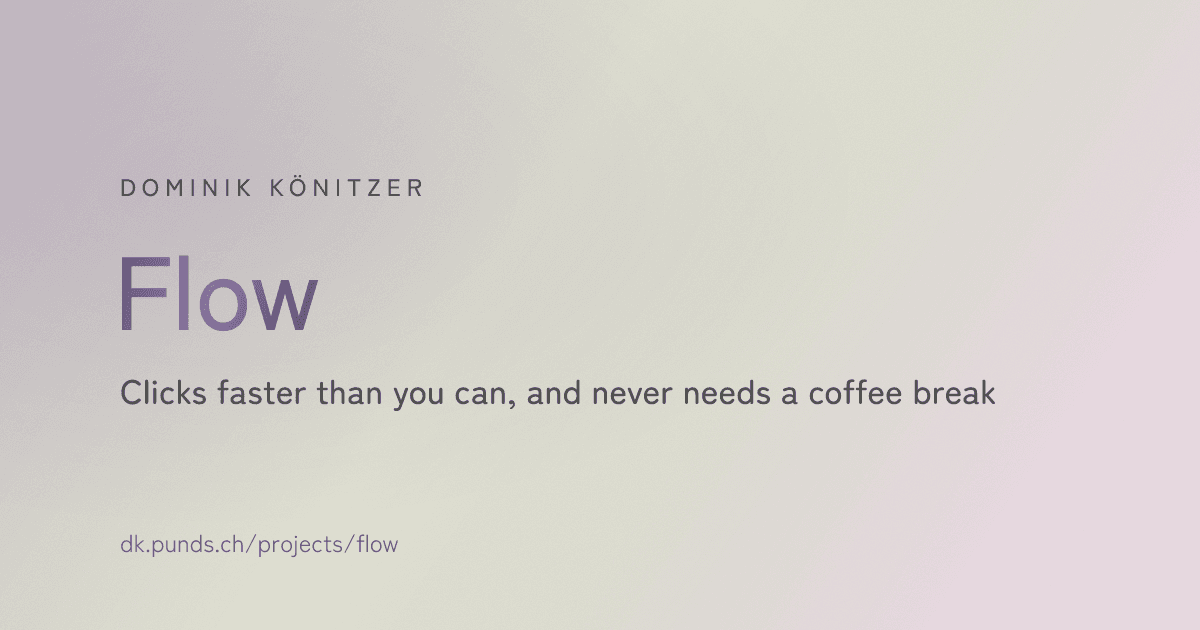
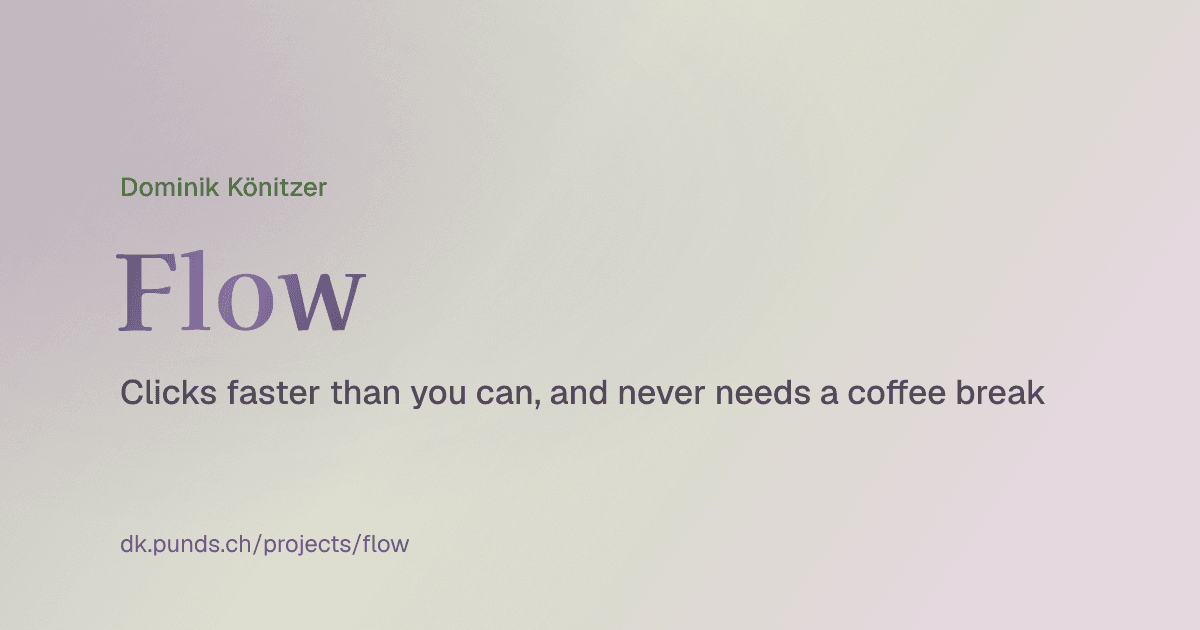
chore(og): share cards in Geist and Kaisei Decol

diff --git a/scripts/gen-og.ts b/scripts/gen-og.ts
@@ -11,8 +11,10 @@
  * Run: `bun scripts/gen-og.ts`. Needs `@resvg/resvg-js` and `sharp`, which are
  * not kept in package.json because these change rarely: install them once into
  * the temp folder below (`cd %TEMP%/resvg && bun add @resvg/resvg-js sharp`) or
- * into the repo transiently. The fonts are fetched from the Google Fonts repo
- * into the temp folder on first run; resvg cannot see web fonts.
+ * into the repo transiently. The fonts are fetched into the temp folder on
+ * first run, static cuts only (resvg cannot see web fonts and would draw a
+ * variable font at its default weight): Geist from its own repo, the other
+ * two from the Google Fonts repo.
  *
  * The cards are written as 128-colour palette PNGs. resvg's 32-bit output is
  * ~950 KB per card because the grain filter defeats PNG compression, and
@@ -37,22 +39,23 @@ const { Resvg } = transient<typeof import("@resvg/resvg-js")>("@resvg/resvg-js",
 const sharp = transient<typeof import("sharp")>("sharp", "sharp");
 
 const FONT_DIR = join(tmpdir(), "og-fonts");
-const FONT_FILES = [
-  "mplusrounded1c/MPLUSRounded1c-ExtraBold.ttf",
-  "zenmarugothic/ZenMaruGothic-Medium.ttf",
-  "zenmarugothic/ZenMaruGothic-Bold.ttf",
-  "zenkakugothicnew/ZenKakuGothicNew-Regular.ttf",
-  "zenkakugothicnew/ZenKakuGothicNew-Medium.ttf",
+const GOOGLE_FONTS = "https://github.com/google/fonts/raw/main/ofl";
+const GEIST = "https://github.com/vercel/geist-font/raw/main/fonts/Geist/ttf";
+const FONT_URLS = [
+  `${GOOGLE_FONTS}/mplusrounded1c/MPLUSRounded1c-ExtraBold.ttf`,
+  `${GOOGLE_FONTS}/kaiseidecol/KaiseiDecol-Bold.ttf`,
+  `${GEIST}/Geist-Regular.ttf`,
+  `${GEIST}/Geist-Medium.ttf`,
 ];
 
 async function ensureFonts(): Promise<string[]> {
   mkdirSync(FONT_DIR, { recursive: true });
   const paths: string[] = [];
-  for (const rel of FONT_FILES) {
-    const out = join(FONT_DIR, rel.split("/")[1]);
+  for (const url of FONT_URLS) {
+    const out = join(FONT_DIR, url.split("/").at(-1) as string);
     if (!existsSync(out)) {
-      const res = await fetch(`https://github.com/google/fonts/raw/main/ofl/${rel}`);
-      if (!res.ok) throw new Error(`font download failed: ${rel} (${res.status})`);
+      const res = await fetch(url);
+      if (!res.ok) throw new Error(`font download failed: ${url} (${res.status})`);
       writeFileSync(out, new Uint8Array(await res.arrayBuffer()));
     }
     paths.push(out);
@@ -76,9 +79,14 @@ const VIOLET = "#5a4276";
 const SAGE = "#a9c39a";
 const BLUSH = "#e4d3e0";
 
-const TITLE_FONT = "M PLUS Rounded 1c";
-const SUB_FONT = "Zen Maru Gothic";
-const BODY_FONT = "Zen Kaku Gothic New";
+// The site's three faces in their site roles: the hero name's face for the
+// name on the home card, Kaisei Decol for every other title, Geist for text.
+// resvg matches the family name inside the file, and M PLUS Rounded 1c calls
+// itself "Rounded Mplus 1c" there; under the web name the home card fell back
+// to the body face.
+const NAME_FONT = "Rounded Mplus 1c";
+const TITLE_FONT = "Kaisei Decol";
+const BODY_FONT = "Geist";
 
 /** Greedy word wrap for the subtitle: two lines at most, so it never runs
  *  under the footer. */
@@ -126,7 +134,7 @@ const backdrop = `
   <rect width="1200" height="630" filter="url(#grain)"/>`;
 
 const eyebrow = (text: string, y: number) =>
-  `<text x="120" y="${y}" font-family="${BODY_FONT}" font-weight="500" font-size="24" letter-spacing="6" fill="${SAGE_DEEP}">${esc(text)}</text>`;
+  `<text x="120" y="${y}" font-family="${BODY_FONT}" font-weight="500" font-size="26" fill="${SAGE_DEEP}">${esc(text)}</text>`;
 
 const footer = (text: string) =>
   `<text x="120" y="552" font-family="${BODY_FONT}" font-weight="400" font-size="24" fill="${MUTED}">${esc(text)}</text>`;
@@ -135,15 +143,15 @@ const subtitle = (text: string, y: number) =>
   wrap(text, 58)
     .map(
       (line, i) =>
-        `<text x="120" y="${y + i * 46}" font-family="${SUB_FONT}" font-weight="500" font-size="34" fill="${FOREGROUND}" fill-opacity="0.82">${esc(line)}</text>`,
+        `<text x="120" y="${y + i * 46}" font-family="${BODY_FONT}" font-weight="500" font-size="34" fill="${FOREGROUND}" fill-opacity="0.82">${esc(line)}</text>`,
     )
     .join("\n  ");
 
 const card = (title: string, sub: string, path: string) =>
   `<svg width="1200" height="630" viewBox="0 0 1200 630" xmlns="http://www.w3.org/2000/svg">
   ${backdrop}
-  ${eyebrow("DOMINIK KÖNITZER", 196)}
-  <text x="114" y="330" font-family="${TITLE_FONT}" font-weight="800" font-size="104" fill="url(#name)">${esc(title)}</text>
+  ${eyebrow("Dominik Könitzer", 196)}
+  <text x="114" y="330" font-family="${TITLE_FONT}" font-weight="700" font-size="104" fill="url(#name)">${esc(title)}</text>
   ${subtitle(sub, 404)}
   ${footer(`dk.punds.ch${path}`)}
 </svg>`;
@@ -152,9 +160,9 @@ const card = (title: string, sub: string, path: string) =>
 const homeCard = () =>
   `<svg width="1200" height="630" viewBox="0 0 1200 630" xmlns="http://www.w3.org/2000/svg">
   ${backdrop}
-  ${eyebrow("HI, I'M", 168)}
-  <text x="114" y="292" font-family="${TITLE_FONT}" font-weight="800" font-size="112" fill="url(#name)">Dominik</text>
-  <text x="114" y="404" font-family="${TITLE_FONT}" font-weight="800" font-size="112" fill="url(#name)">Könitzer</text>
+  ${eyebrow("Hi, I'm", 168)}
+  <text x="114" y="292" font-family="${NAME_FONT}" font-weight="800" font-size="112" fill="url(#name)">Dominik</text>
+  <text x="114" y="404" font-family="${NAME_FONT}" font-weight="800" font-size="112" fill="url(#name)">Könitzer</text>
   ${subtitle("Software engineer and web developer in Zürich", 470)}
   ${footer("dk.punds.ch")}
 </svg>`;
